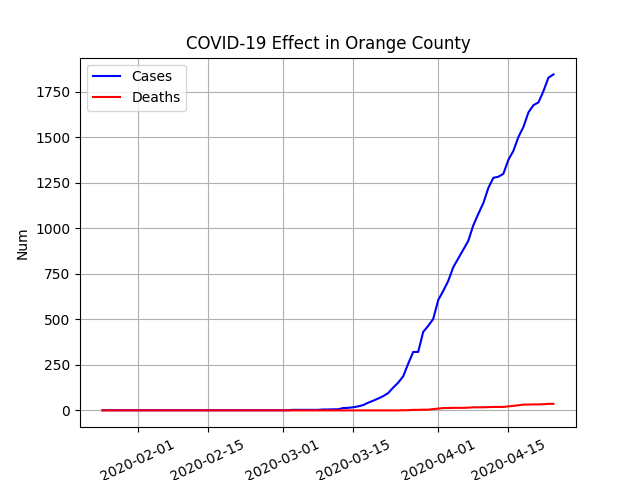
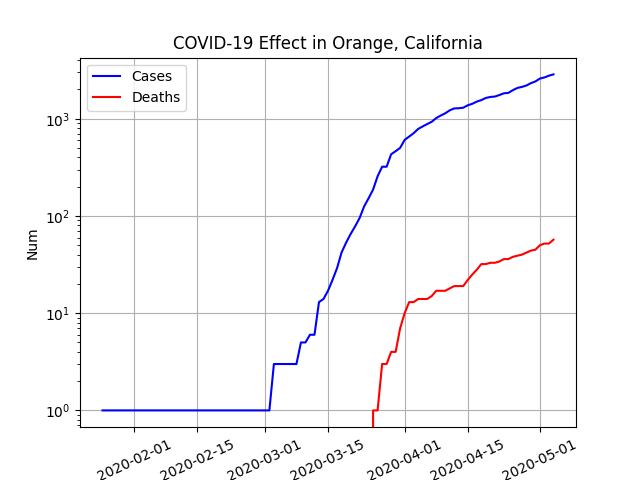
yes

diff --git a/data.py b/data.py
@@ -85,6 +85,9 @@ class data:
         connection = db.create_connection(data.sql_addr, data.sql_user, data.sql_pass, data.db_name)
         if ", " in location:
             county,state = location.split(", ")
+            #county.replace(" county","")
+            #county.replace(" County","")
+
             FIPS = db.query(connection,data.county_metadata,"FIPS",["county = '{}'".format(county),"state = '{}'".format(state)])[0][0]
             connection.close()
             return FIPS
@@ -608,7 +611,7 @@ class data:
         return last_committed_date
 
     #accessors
-    def get_county_data(fips, date="*"): # -> {str : (int, int) } # fun fact: if data exists for county on certain day, it is still uploaded to api, even if data is the exact same as the prior day's data. as such there are no skipped days. keep in mind when calcing new cases
+    def get_county_data(fips,doprint=False,date="*"): # -> {str : (int, int) } # fun fact: if data exists for county on certain day, it is still uploaded to api, even if data is the exact same as the prior day's data. as such there are no skipped days. keep in mind when calcing new cases
         connection = db.create_connection(data.sql_addr, data.sql_user, data.sql_pass, data.db_name)
         table = "ID"+str(fips)
         if date == "*":
@@ -617,12 +620,56 @@ class data:
             dataraw = db.query(connection,table,"*",condition="date = '{}'".format(date))
         dataclean = {}
         for dr in dataraw:
+            if doprint:
+                print(str(dr[0]), ": ",dr[1],", ", dr[2])
             dataclean[str(dr[0])] = (dr[1],dr[2])
         return dataclean
+
+    def plot(fips, filename="generate",show=False,scale="log"): #scale = log, linear. include .png in filename
+        #todo: enter fips as list of sets of (fips, bool numCases, bool numDeaths) for printing comparison graphs
+        text = data.text_from_fips(fips)
+        if filename == "generate":
+            County, State = data.c_s_from_text(text)
+            filename = "plot-"+County+"-"+State+".png".replace(" ","_")
+        table = "ID"+str(fips)
+        connection = db.create_connection(data.sql_addr, data.sql_user, data.sql_pass, data.db_name)
+        dates = db.query(connection,table,"date")
+        total_cases = db.query(connection,table,"total_cases")
+        total_deaths = db.query(connection,table,"total_deaths")
+
+        fig, ax = plt.subplots()
+        ax.plot(dates,total_cases,color='blue',label='Cases')
+        ax.plot(dates,total_deaths,color='red',label='Deaths')
+        plt.legend()
+        plt.xticks(rotation=25)
+        plt.yscale(scale)
+        ax.set(xlabel='Date Reported', ylabel='Num',title='COVID-19 Effect in {}'.format(text))
+        ax.grid()
+        fig.savefig(filename)
+        if show:
+            plt.show()
+        connection.close()
+        return True
 
 if __name__ == "__main__":
 
     db.log = False
+    while True:
+        userInput = input("[CMD] ")
+        if userInput == "graph":
+            location = input("[CMD] location: ")
+            fips = data.fips_from_text(location)
+            data.plot(fips,show=True,scale="log")
+        elif userInput == "get":
+            location = input("[CMD] location: ")
+            date = input("[CMD] date: ")
+            fips = data.fips_from_text(location)
+            print(fips)
+            #connection = db.create_connection(data.sql_addr, data.sql_user, data.sql_pass, data.db_name)
 
+            print(db.print_all(db.query()))
+            data.get_county_data(fips,date,doprint=True)
+        elif userInput == "update":
+            data.update_all(log=True,highlight_errors=True)
     #data.init_db()
-    #data.update_all(log=True,end_on_data_skip=True,highlight_errors=True,update_state_in_county_update=True)
+    #data.update_all(log=True,highlight_errors=True)

diff --git a/stats.py b/stats.py
@@ -18,7 +18,7 @@ class stats:
         if t>1:
             return calc.PredictedDeaths(t-1, d) * calc.EDG(t + d, a, b)
         else:
-            return calc.EDG(t + d, b)
+            return calc.EDG(t + d, a, b)
 
     def VulnerabilityFactor(fips):
         table = "ID"+fip
@@ -27,39 +27,12 @@ class stats:
 
         fr_by_age = {0:0,10:0,20:0,30:0.11,40:0.09,50:0.37,60:1.51,70:5.35,80:10.84}
         for age in range(0,81,10):
-            res = db.query()
+             #res = db.query(connection,)
 
     def EC():
         pass
 
-    def plot(fips, filename="generate",show=False,scale="log"): #scale = log, linear. include .png in filename
-        #todo: enter fips as list of sets of (fips, bool numCases, bool numDeaths) for printing comparison graphs
-        text = data.text_from_fips(fips)
-        if filename == "generate":
-            County, State = data.c_s_from_text(text)
-            filename = "plot-"+County+"-"+State+".png".replace(" ","_")
-        table = "ID"+str(fips)
-        connection = db.create_connection(data.sql_addr, data.sql_user, data.sql_pass, data.db_name)
-        dates = db.query(connection,table,"date")
-        total_cases = db.query(connection,table,"total_cases")
-        total_deaths = db.query(connection,table,"total_deaths")
 
-        fig, ax = plt.subplots()
-        ax.plot(dates,total_cases,color='blue',label='Cases')
-        ax.plot(dates,total_deaths,color='red',label='Deaths')
-        plt.legend()
-        plt.xticks(rotation=25)
-        plt.yscale(scale)
-        ax.set(xlabel='Date Reported', ylabel='Num',title='COVID-19 Effect in {}'.format(text))
-        ax.grid()
-        fig.savefig(filename)
-        if show:
-            plt.show()
-        connection.close()
-        return True
 
 if __name__ == "__main__":
     #calc.VulnerabilityFactor(0)
-
-    fips = data.fips_from_text("Merced, California")
-    stats.plot(fips,show=True,scale="log")

diff --git a/myBot.py b/myBot.py
@@ -130,6 +130,8 @@ def get_all_received_dms():
 
 if __name__ == '__main__':
     userbase.create_usertables()
+    data.update_all(log=True,highlight_errors=True)
+
     reply_to_tweets()
     get_all_received_dms()
     send_dms()
